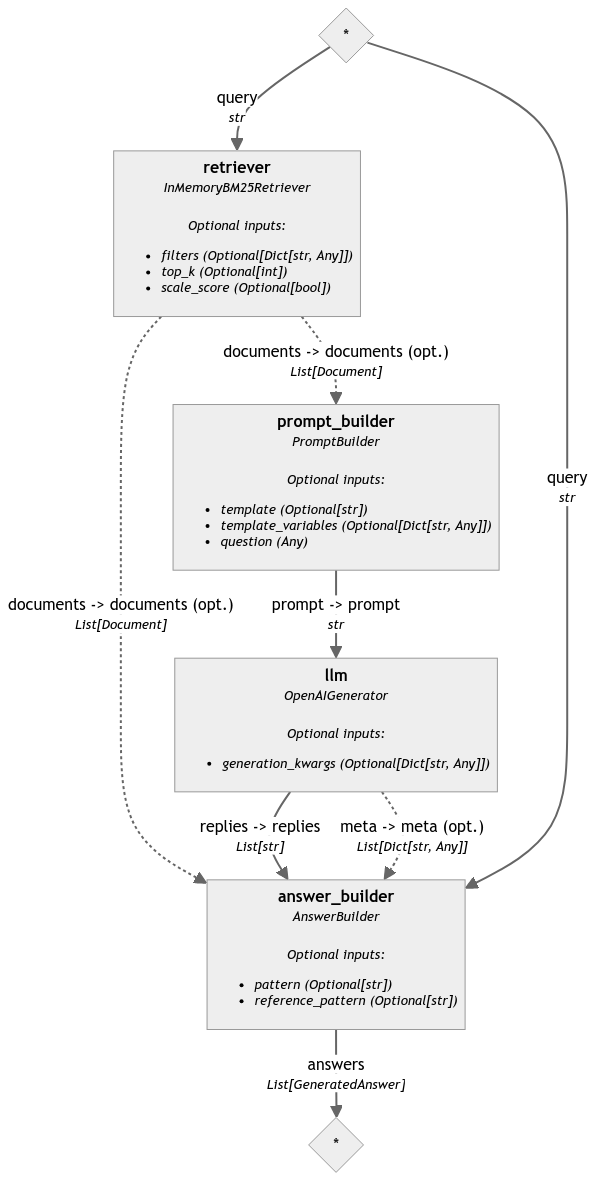
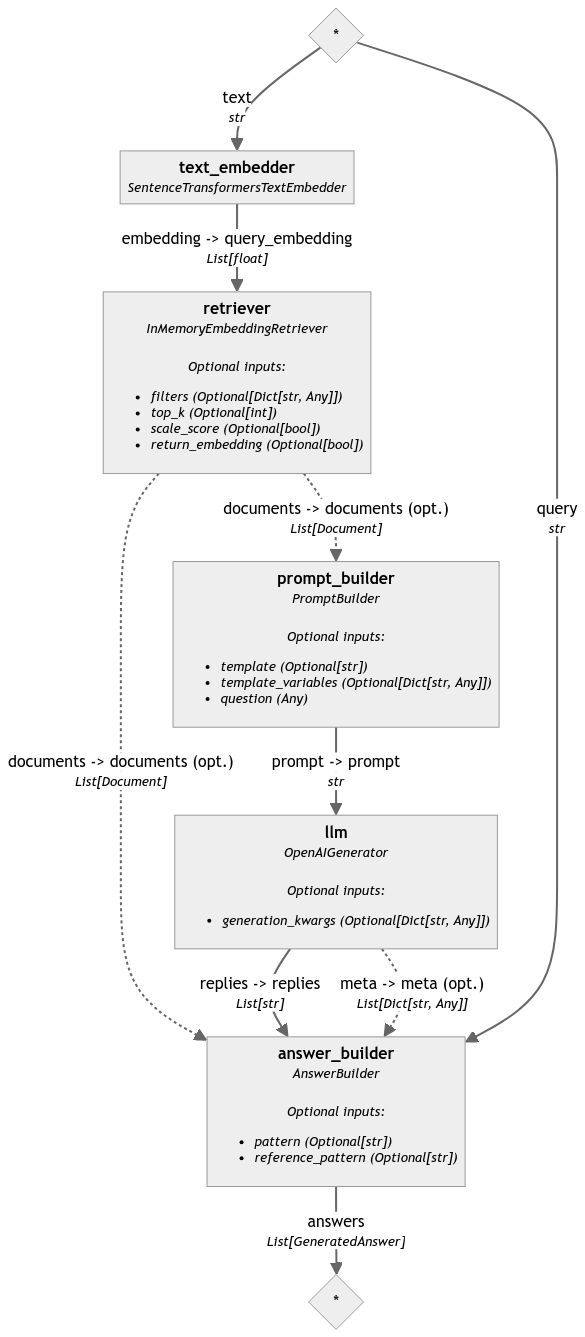
feat: make a python ml package/ go back to sentence-transformers

diff --git a/rag_system/ingest.py b/rag_system/ingest.py
@@ -1,0 +1,58 @@
+"""Import files to build rag algorithm."""
+from pathlib import Path
+import os
+import sys
+
+from datasets import load_dataset
+from haystack import Document
+from haystack.components.embedders import SentenceTransformersDocumentEmbedder
+from haystack.document_stores.in_memory import InMemoryDocumentStore
+from haystack.utils import ComponentDevice
+
+import box
+from dotenv import load_dotenv, find_dotenv
+import yaml
+
+PACKAGE_ROOT = Path(os.path.abspath(os.path.dirname(__file__))).parent
+sys.path.append(str(PACKAGE_ROOT))
+
+load_dotenv(find_dotenv())
+# Import config vars
+with open('rag_system/config.yml', 'r', encoding='utf8') as ymlfile:
+    cfg = box.Box(yaml.safe_load(ymlfile))
+
+
+def load_data_into_store():
+    """Load and embed data into"""
+    
+
+    document_store = InMemoryDocumentStore()
+    dataset = load_dataset(cfg.DATA_SET, split="train")
+    docs = [Document(content=doc["content"], meta=doc["meta"])
+            for doc in dataset]
+
+    if cfg.TYPE_RETRIEVAL == 'dense':
+        doc_embedder = SentenceTransformersDocumentEmbedder(
+             model=cfg.EMBEDDINGS)
+        doc_embedder.warm_up()
+
+        docs_with_embeddings = doc_embedder.run(docs)
+        final_docs = docs_with_embeddings["documents"]
+        print(final_docs)
+    elif cfg.TYPE_RETRIEVAL == 'sparse':
+        final_docs = docs
+    elif cfg.TYPE_RETRIEVAL == 'hybrid':
+        doc_embedder = SentenceTransformersDocumentEmbedder(
+            model=cfg.EMBEDDINGS,
+            device=ComponentDevice.from_str("cuda:0"))
+        doc_embedder.warm_up()
+
+        docs_with_embeddings = doc_embedder.run(docs)
+        final_docs = docs_with_embeddings["documents"]
+    else:
+        final_docs = None
+
+    if final_docs:
+        document_store.write_documents(final_docs)
+    print(document_store.count_documents())
+    return document_store

diff --git a/rag_system/rag_pipelines.py b/rag_system/rag_pipelines.py
@@ -9,18 +9,15 @@ import box
 import yaml
 
 from .llm import setup_single_llm
-# from .ingest import load_data_no_preprocessing
+from .ingest import load_data_into_store
 
 from .embedders import setup_embedder
 from .wrapper_prompts import setup_prompt
 from .retrievers import setup_single_retriever
 from .retrievers import setup_hyrbrid_retriever
 
-with open('./src/config.yml', 'r', encoding='utf8') as ymlfile:
+with open('rag_system/config.yml', 'r', encoding='utf8') as ymlfile:
     cfg = box.Box(yaml.safe_load(ymlfile))
-
-doc_store = InMemoryDocumentStore()
-
 
 def setup_no_rag_pipeline() -> Pipeline:
     """Build basic no rag pipeline - only request to the llm model."""
@@ -44,6 +41,8 @@ def setup_no_rag_pipeline() -> Pipeline:
 def setup_rag_dense_pipeline() -> Pipeline:
     """Build basic rag haystack pipeline."""
     prompt = setup_prompt()
+    doc_store = load_data_into_store()
+
     llm = setup_single_llm(cfg.LLM_MODEL)
     text_embedder = setup_embedder(cfg.EMBEDDINGS)
     retriever = setup_single_retriever(doc_store)
@@ -73,6 +72,7 @@ def setup_rag_sparse_pipeline() -> Pipeline:
     """Build basic rag haystack pipeline."""
     prompt = setup_prompt()
     llm = setup_single_llm(cfg.LLM_MODEL)
+    doc_store = InMemoryDocumentStore()
     bm25_retriever = setup_single_retriever(doc_store)
 
     sparse_pipeline = Pipeline()
@@ -94,7 +94,7 @@ def setup_rag_sparse_pipeline() -> Pipeline:
 
 def setup_rag_hybrid_pipeline() -> Pipeline:
     """Build basic rag haystack pipeline."""
-    # doc_store = load_data_no_preprocessing()
+    doc_store = load_data_into_store()
     prompt = setup_prompt()
     llm = setup_single_llm(cfg.LLM_MODEL)
     text_embedder = setup_embedder(cfg.EMBEDDINGS)

diff --git a/rag_system/main.py b/rag_system/main.py
@@ -1,23 +1,30 @@
 """Main entry point for the rag algorithm."""
+import os
+from pathlib import Path
+import sys
 import timeit
 
 import box
 from dotenv import find_dotenv, load_dotenv
 import yaml
 
-from src.evaluate import evaluate_rag, build_rag_eval_report
-from src.inference import run_pipeline
-from src.rag_pipelines import select_rag_pipeline
-from src.utils import create_gt_answer_data, create_question_data
-from src.utils import load_eval_data, save_eval_data
+PACKAGE_ROOT = Path(os.path.abspath(os.path.dirname(__file__)))
+sys.path.append(str(PACKAGE_ROOT))
+
+with open('rag_system/config.yml', 'r', encoding='utf8') as ymlfile:
+    cfg = box.Box(yaml.safe_load(ymlfile))
+
+from .evaluate import evaluate_rag, build_rag_eval_report
+from .inference import run_pipeline
+from .rag_pipelines import select_rag_pipeline
+from utils import create_gt_answer_data, create_question_data
+from utils import load_eval_data, save_eval_data
 
 load_dotenv(find_dotenv())
 
-with open('./src/config.yml', 'r', encoding='utf8') as ymlfile:
-    cfg = box.Box(yaml.safe_load(ymlfile))
 
-
-if __name__ == "__main__":
+def test():
+    """ """
     QUERY_LIST = create_question_data()
     start = timeit.default_timer()
     rag_answers, retrieved_docs, rag_questions = [], [], []
@@ -39,3 +46,7 @@ if __name__ == "__main__":
     build_rag_eval_report(inputs, results)
     print('=' * 50)
     print(f"Time to retrieve answer: {end - start}")
+
+
+if __name__ == "__main__":
+    test()

diff --git a/rag_system/app.py b/rag_system/app.py
@@ -1,10 +1,14 @@
 """Application file for fastapi endpoint for the rag algorithm."""
+import os
+#from pathlib import Path
+import sys
+sys.path.append(os.path.dirname(os.path.dirname(os.path.abspath(__file__))))
+
 import json
 
 from fastapi import FastAPI, Request, Response, Form, HTTPException
 from fastapi.templating import Jinja2Templates
 from fastapi.encoders import jsonable_encoder
-import uvicorn
 
 
 from dotenv import load_dotenv, find_dotenv
@@ -12,12 +16,13 @@ from dotenv import load_dotenv, find_dotenv
 import box
 import yaml
 
-from src.inference import run_pipeline
-from src.rag_pipelines import select_rag_pipeline
+
+from rag_system.inference import run_pipeline
+from rag_system.rag_pipelines import select_rag_pipeline
 
 load_dotenv(find_dotenv())
 
-with open('./src/config.yml', 'r', encoding='utf8') as ymlfile:
+with open('rag_system/config.yml', 'r', encoding='utf8') as ymlfile:
     cfg = box.Box(yaml.safe_load(ymlfile))
 
 
@@ -56,6 +61,10 @@ async def get_answer(request: Request, question: str = Form(...)):
 
     return res
 
+def main():
+    import uvicorn
+    uvicorn.run("app:app", host='0.0.0.0', port=8001, reload=True)
+
 
 if __name__ == "__main__":
-    uvicorn.run("app:app", host='0.0.0.0', port=8001, reload=True)
+    main()

diff --git a/rag_system/retrievers.py b/rag_system/retrievers.py
@@ -6,7 +6,7 @@ from haystack.components.retrievers.in_memory import InMemoryBM25Retriever
 from haystack.components.retrievers.in_memory import InMemoryEmbeddingRetriever
 import yaml
 
-with open('./src/config.yml', 'r', encoding='utf8') as ymlfile:
+with open('rag_system/config.yml', 'r', encoding='utf8') as ymlfile:
     cfg = box.Box(yaml.safe_load(ymlfile))
 
 
@@ -14,7 +14,7 @@ def setup_single_retriever(doc_store: object) -> InMemoryBM25Retriever:
     """Build embedding or sparse(bm25)-based retreiver."""
     retriever = None
     if cfg.TYPE_RETRIEVAL == 'dense':
-        retriever = InMemoryEmbeddingRetriever(doc_store)
+        retriever = InMemoryEmbeddingRetriever(document_store=doc_store)
     elif cfg.TYPE_RETRIEVAL == 'sparse':
         retriever = InMemoryBM25Retriever(document_store=doc_store)
 

diff --git a/rag_system/llm.py b/rag_system/llm.py
@@ -1,7 +1,15 @@
 """Build generators for separate llm models."""
+import os
+from pathlib import Path
+import sys
+
 from haystack.components.generators import HuggingFaceTGIGenerator
 from haystack.components.generators import OpenAIGenerator
 from haystack.utils import Secret
+
+PACKAGE_ROOT = Path(os.path.abspath(os.path.dirname(__file__)))
+print(PACKAGE_ROOT)
+sys.path.append(str(PACKAGE_ROOT))
 
 import box
 from dotenv import load_dotenv, find_dotenv
@@ -9,7 +17,7 @@ import yaml
 
 load_dotenv(find_dotenv())
 
-with open('./src/config.yml', 'r', encoding='utf8') as ymlfile:
+with open('rag_system/config.yml', 'r', encoding='utf8') as ymlfile:
     cfg = box.Box(yaml.safe_load(ymlfile))
 
 

diff --git a/setup.py b/setup.py
@@ -22,7 +22,7 @@ def list_reqs(fname='requirements.txt'):
 with open('VERSION') as version_file:
     _version = version_file.read().strip()
 
-try:
+try:    
     with io.open(os.path.join(pwd, 'README.md'), encoding='utf-8') as f:
         long_description = '\n' + f.read()
 except FileNotFoundError:
@@ -49,6 +49,11 @@ setup(
         'License :: OSI Aproved :: Apache License Version 2.0',
         'Operating System :: OS I'
     ],
+    entry_points={
+        'console_scripts': [
+            'start-rag-system=rag_system.app:main',  # Entry point
+        ],
+    },
 
 
 )

diff --git a/rag_system/inference.py b/rag_system/inference.py
@@ -6,7 +6,7 @@ import yaml
 
 from .utils import extract_rag_answer, extract_retrieved_docs
 
-with open('./src/config.yml', 'r', encoding='utf8') as ymlfile:
+with open('rag_system/config.yml', 'r', encoding='utf8') as ymlfile:
     cfg = box.Box(yaml.safe_load(ymlfile))
 
 
@@ -53,5 +53,5 @@ def run_pipeline(query: str, rag_pipeline: Pipeline) -> Pipeline:
 
     rag_answer = extract_rag_answer(response_rag)
     retrieved_docs = extract_retrieved_docs(response_rag)
-
+    print(retrieved_docs)
     return rag_answer, retrieved_docs

diff --git a/rag_system/eval_pipelines.py b/rag_system/eval_pipelines.py
@@ -5,12 +5,6 @@ from haystack.components.evaluators.sas_evaluator import SASEvaluator
 
 from fastembed import TextEmbedding
 
-import box
-import yaml
-
-with open('./src/config.yml', 'r', encoding='utf8') as ymlfile:
-    cfg = box.Box(yaml.safe_load(ymlfile))
-
 
 def evaluate_gt_pipeline() -> Pipeline:
     """Build basic evaluation haystack pipeline with ground truth data."""

diff --git a/rag_system/embedders.py b/rag_system/embedders.py
@@ -1,0 +1,6 @@
+"""Contain wrappers of embedder components of tne rag pipeline."""
+from haystack.components.embedders import SentenceTransformersTextEmbedder
+
+def setup_embedder(model_name: str) -> SentenceTransformersTextEmbedder:
+    """Transform a string into a vector."""
+    return SentenceTransformersTextEmbedder(model=model_name)

diff --git a/rag_system/evaluate.py b/rag_system/evaluate.py
@@ -9,7 +9,7 @@ import yaml
 
 from .eval_pipelines import evaluate_gt_pipeline
 
-with open('./src/config.yml', 'r', encoding='utf8') as ymlfile:
+with open('rag_system/config.yml', 'r', encoding='utf8') as ymlfile:
     cfg = box.Box(yaml.safe_load(ymlfile))
 
 

diff --git a/rag_system/wrapper_prompts.py b/rag_system/wrapper_prompts.py
@@ -1,7 +1,7 @@
 """Contain wrappers of prompt components of tne rag pipeline."""
 from haystack.components.builders import PromptBuilder
 
-from .prompts import PROMPT_TEMPLATE
+from prompts import PROMPT_TEMPLATE
 
 
 def setup_prompt() -> PromptBuilder:
